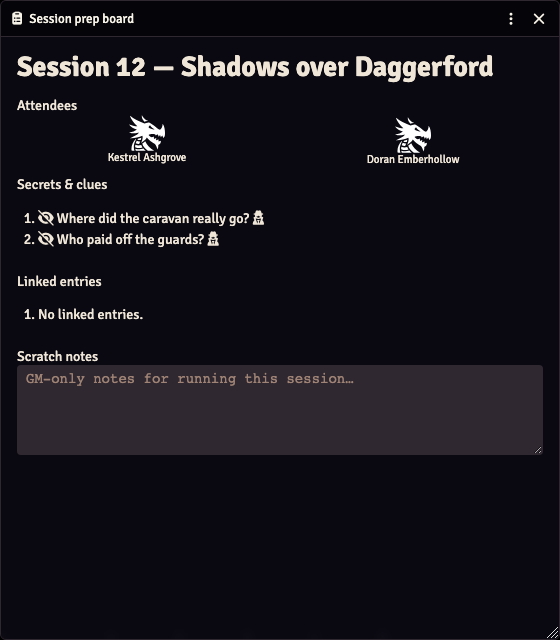
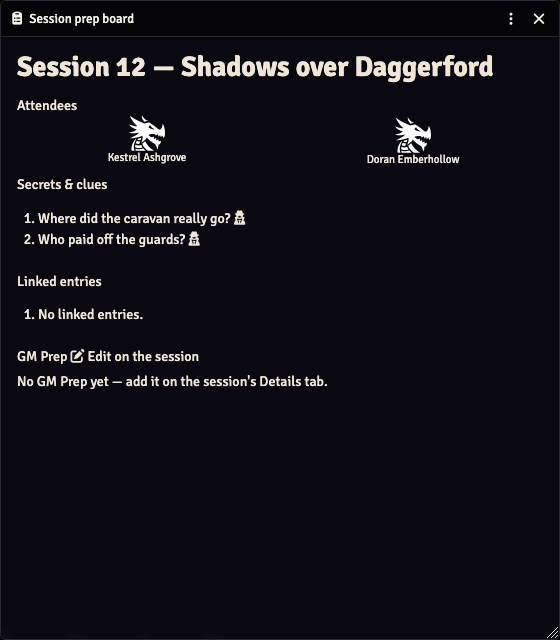
docs: re-shoot the Session, Links rail and prep board guide images; prep board says GM Prep

Changed region(s): [[0.0304, 0.5312, 0.9714, 0.7188], [0.0607, 0.3125, 0.4857, 0.4062]]

diff --git a/docs/gm-guide.md b/docs/gm-guide.md
@@ -46,7 +46,7 @@ The Hub's **New session** button, in its header bar, does the same thing without
 
 The Session sheet has four tabs for a GM: **Recap**, **Details**, **Relationships** and **My Notes**. A player sees **Recap**, **Details** and **My Notes**, plus **Relationships** whenever they can add a party relationship there or have one to see (see [Player collaboration](#player-collaboration)). Above the tabs sits one compact header row in the same style as any other Monk's Enhanced Journal entry: a 56 px **thumbnail** on the left (click it to see the image full size, for you only; with no image it is a dashed **+** that opens the image picker, and an owner can change or remove the image from it), the session **name** (an owner edits it in place), and under it the meta line: `#<session number>`, the **attendee chips** (see [Attendees](#attendees)) and a **status chip**. The chip reads **Live** with the elapsed time while this is the campaign's running session, **Ended** once it has been started and stopped, and nothing before its first start. The GM's **Start session** / **End session** / **Restart** button sits at the right end of the header. The whole sheet sits on MEJ's own background, so its text stays readable on every MEJ background in both colour schemes.
 
-![The Session sheet's Recap tab: the header row with thumbnail, name, session number, attendee chips and status chip above the tab strip, with the shared recap text and the Table talk drawer below (the image predates the redesign and still shows the older header)](images/session-sheet-gm.png)
+![The Session sheet on the Recap tab: the header row with an empty thumbnail, the name, #12, two attendee chips with their edit control, the Ended chip and a Restart button, above the tabs Recap, Details, Relationships and My Notes; the shared recap text, a collapsed Table talk line and the closed Links tab at the right edge](images/session-sheet-gm.png)
 
 - **Recap** is the session's one shared recap, with the **Table talk** drawer below it (see [Running a session](#running-a-session-start-notes-end)). Click into the recap and type; there is nothing to open and nothing to save by hand. The formatting toolbar appears while the editor has focus, and a quiet line beside it reads "Saving…", "Saved" or "Couldn't save". The recap saves when you click away, switch tabs, close the sheet or the Enhanced Journal window, and Foundry's collaborative editor saves it periodically as you type. You write it; so does any player who owns the entry (see [Player collaboration](#player-collaboration)) — several people can type in it at once and see each other's typing. Live Table talk arriving, attendee changes and Start/End never interrupt what you are typing. A save from any other field on the sheet never touches the recap.
 - **Details** holds, in order: **Session Number**; the in-game date as separate **Year**, **Month** (a dropdown: blank, then January through December), **Day**, **Hour** and **Minute** fields; a collapsible **Secrets & clues** section; and a collapsible **GM Prep** section. The first time a session is started, its in-game date is set to the world date at that moment, unless you already entered one by hand; restarting never changes it. **GM Prep** is your private prep text, always editable and autosaved like the recap, and never shown to players. The attendee list is no longer on this tab; it lives in the header.
@@ -61,7 +61,7 @@ One thing worth knowing before you go looking for it: the Details tab's campaign
 
 The **Secrets & clues** section on the Details tab tracks secrets tied to this session specifically — separate from the block-level secrets covered under [Secrets](#secrets) below, though both reveal through the same audience machinery. Its heading carries the count, **+ add** to add a row and a link to the session prep board. Each secret row then carries one audience control and a trash (deleting a secret asks you to confirm). The audience control is the only way to reveal a row: click it and tick **Everyone** at the top of its dialog to reveal to the whole table, or tick individual players or groups. A row revealed to everyone shows ✱ on the control; otherwise it shows the number of players it is revealed to.
 
-![The Secrets & clues section on the Details tab, with its add and prep board controls above two secret rows and their hide, audience, and delete controls (the image predates the redesign and still shows the old Session tab block)](images/session-checklist.png)
+![The Secrets & clues section on the Details tab, headed with the count (2) and carrying an add button and a prep board button, above two secret rows that each have an audience control and a trash button](images/session-checklist.png)
 
 ## Running a session: Start, notes, End
 
@@ -314,7 +314,7 @@ Either way, every player you reveal to gets a private whisper naming the entry t
 
 **The session prep board** is a GM-only board for tracking reveal decisions across a session. Open it from the **Prep board** link in the Details tab's **Secrets & clues** section — that button is the only route, since current MEJ v14 builds don't render any companion button on an entry sheet's window header. The board shows the session's name, its **Attendees**, a numbered **Secrets & clues** list carrying the same audience control as the checklist (a single control per secret, with **Everyone** inside its dialog), **Linked entries** (or "No linked entries."), and the session's **GM Prep**, shown read-only with an **Edit on the session** link that opens the session sheet where they are edited. The board no longer has a separate scratch-notes box; any scratch notes written there before are folded into GM Prep once, so the session has one GM note field:
 
-![The session prep board, showing attendees, the numbered secrets and clues list, linked entries, and the session's GM Prep read-only with an Edit on the session link (the image predates this and still shows a scratch-notes box)](images/prep-board.png)
+![The session prep board, showing attendees, the numbered Secrets & clues list, linked entries, and the session's GM Prep read-only with an Edit on the session link](images/prep-board.png)
 
 **Before you rely on any of this to protect something sensitive at the table:** secrets here are hidden by client-side filtering, the same trust model as Foundry's own secret blocks and MEJ's GM notes — the data still reaches every client that can see the page. Session owners can technically edit the session's data, so the checklist's reveal state is not tamper-proof against a player using the browser console. Read the README's [secrets trust model](../README.md#secrets) for the full statement.
 

diff --git a/docs/player-guide.md b/docs/player-guide.md
@@ -10,7 +10,7 @@ Your GM's world is organised into **campaigns** — a folder of entries plus a *
 
 The piece you'll interact with most directly is the **Session** page — one per game session, opened the same way as any other journal entry your GM shares with you. A header row sits above the tabs: the session's thumbnail (click it to see the image full size, on your screen only), its name, `#<number>`, the characters playing tonight as small chips, and a status chip that reads **Live** with the elapsed time while the session is running and **Ended** once it has finished. From a player's seat the page has three tabs: **Recap**, **Details** and **My Notes**, plus **Relationships** whenever you can add a party relationship there or have one to see (see [Recording relationships](#recording-relationships)).
 
-![A player's Session sheet for "Session 12 — Shadows over Daggerford", showing the header row and the tabs Recap, Details and My Notes, with the session's shared recap on the Recap tab (the image predates the redesign and still shows the older layout)](images/session-sheet-player.png)
+![A player's Session sheet for "Session 12 — Shadows over Daggerford": the header row with the session name, #12, two attendee chips and the Ended chip above the tabs Recap, Details and My Notes, with the shared recap and a collapsed Table talk line below and the Links tab at the right edge](images/session-sheet-player.png)
 
 The Recap tab holds one recap for the whole table — what happened, as the GM and the players write it together — and, under it, **Table talk**, the notes everyone jots down during play (see [Taking notes during play](#taking-notes-during-play)). The **Details** tab shows the session number, its in-game date and any secrets already revealed to you.
 
@@ -18,7 +18,7 @@ The Recap tab holds one recap for the whole table — what happened, as the GM a
 
 Your GM will let you know how to find a session page — usually by sharing it directly in Foundry, or by pointing you to it in the Hub's index (more on that below). If you own the entry, there is nothing to open or save: click into the recap and type what your character remembers, noticed, or wants to flag for next time. The formatting toolbar appears while your cursor is in the recap:
 
-![The recap open for editing, with the full formatting toolbar directly above the recap text](images/recap-editing.png)
+![The recap being edited: the formatting toolbar sits directly above the recap text while the cursor is in it](images/recap-editing.png)
 
 Your text saves by itself. A small line beside the recap reads "Saving…", "Saved" or "Couldn't save"; it saves when you click away, switch tabs or close the sheet, and periodically while you type. If someone else has the recap open at the same time you'll see their typing appear as they go — you're editing one document together, not two copies, and notes arriving from the table never interrupt what you are typing. Click out of the recap before dropping or pasting an image onto it — while your cursor is in it, the drop is refused with a notice. If you mention another entry by name, it may become a link when you save — that's auto-linking, and it only touches text you just added.
 
